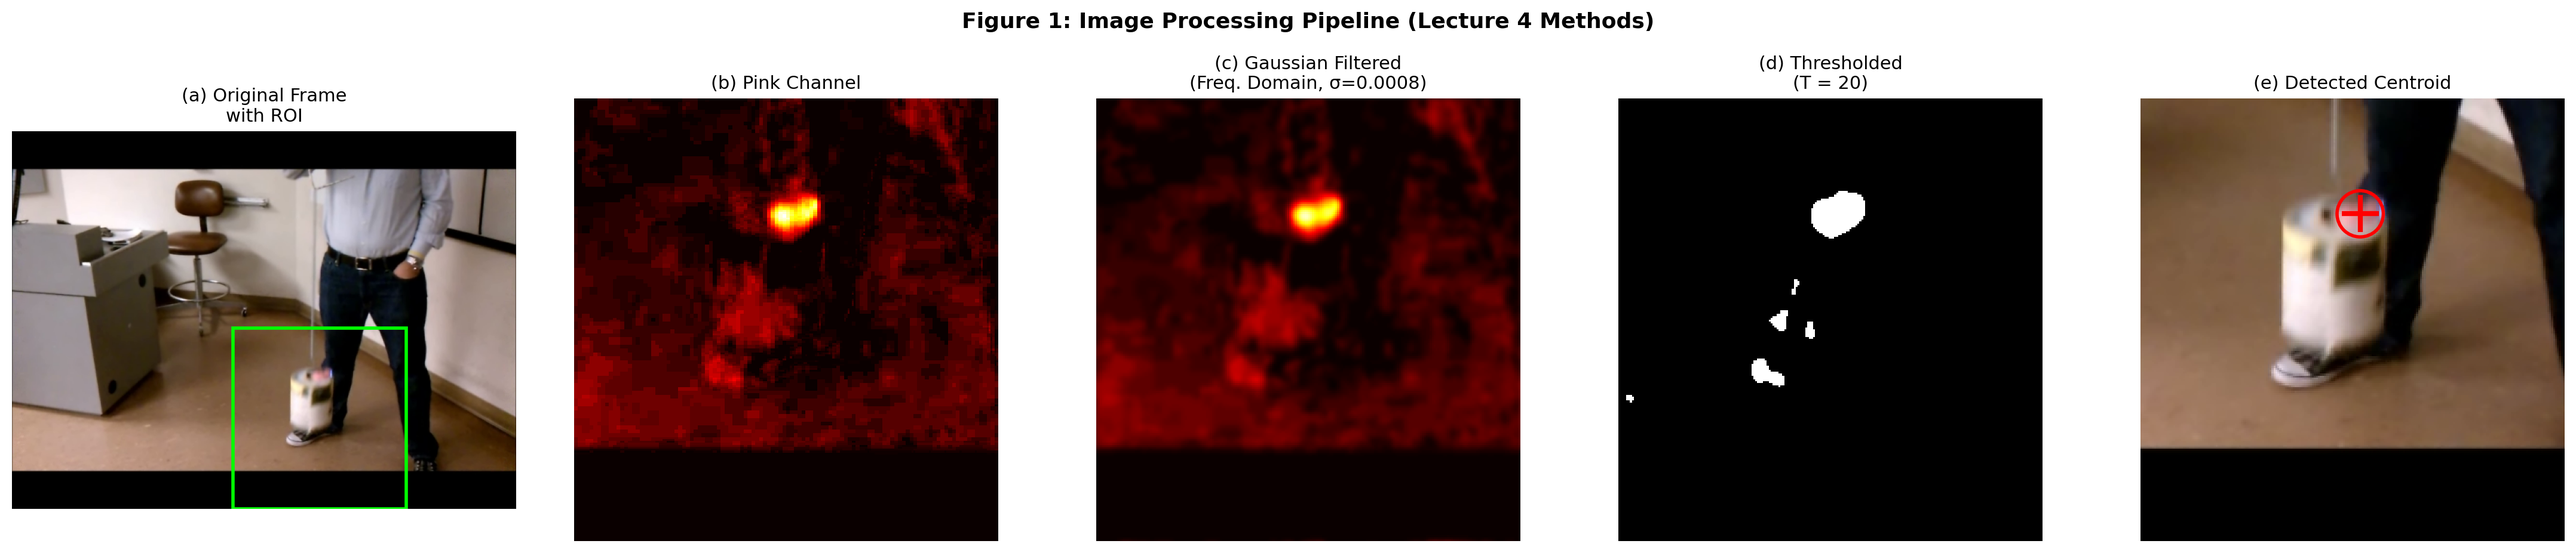
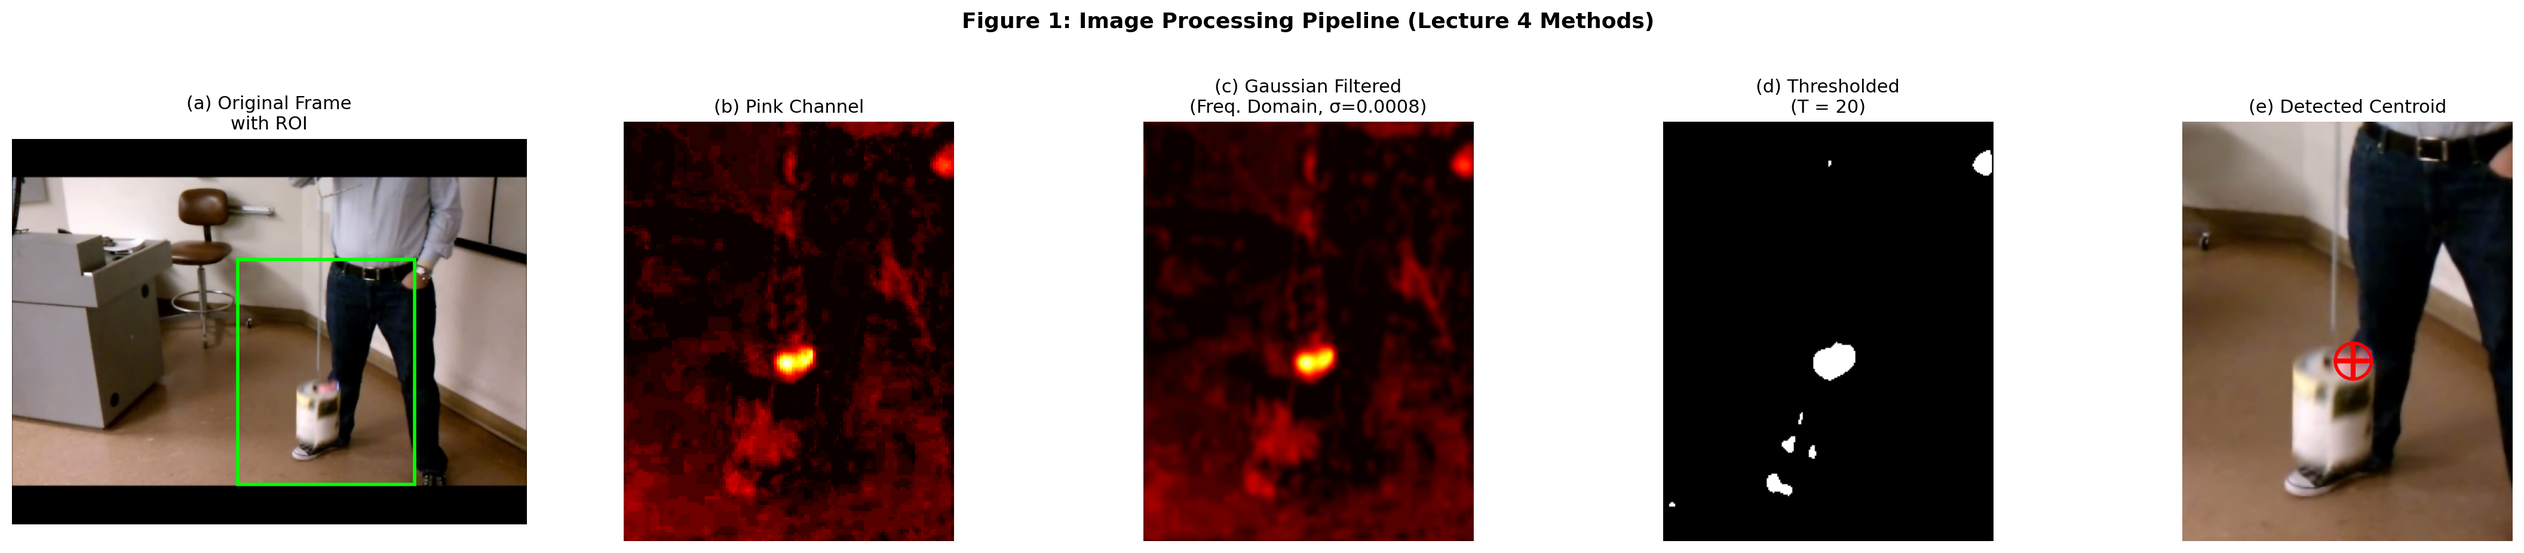
Expand ROIs for Cam 1 & 2, update test1.py for frames 75-100 & 110-150, cleanup old debug images

diff --git a/test1.py b/test1.py
@@ -1,5 +1,5 @@
 """
-Show Camera 1, frames 300–350, all in one figure with tracked centroid overlay.
+Show Camera 1 frame ranges for debugging.
 """
 
 import numpy as np
@@ -9,47 +9,48 @@ from chat1 import track_camera, ROIS, VID_KEYS, CHANNEL_MODE
 
 # -- Settings --------------------------------------------------------------
 CAM = 1
-F_START, F_END = 300, 350          # inclusive range
+FRAME_RANGES = [(75, 100), (110, 150)]
 
 # -- Load video & run tracker ---------------------------------------------
 vid = sio.loadmat(f'cam{CAM}.mat')[VID_KEYS[CAM]]   # (480, 640, 3, nframes)
 x_raw, y_raw = track_camera(CAM)
 y1, y2, x1, x2 = ROIS[CAM]
 
-frames = list(range(F_START, F_END + 1))
-ncols = 10
-nrows = int(np.ceil(len(frames) / ncols))
+for F_START, F_END in FRAME_RANGES:
+    frames = list(range(F_START, F_END + 1))
+    ncols = 10
+    nrows = int(np.ceil(len(frames) / ncols))
 
-fig, axes = plt.subplots(nrows, ncols, figsize=(2.8 * ncols, 3.2 * nrows))
-axes = axes.flatten()
+    fig, axes = plt.subplots(nrows, ncols, figsize=(2.8 * ncols, 3.2 * nrows))
+    axes = axes.flatten()
 
-for i, fidx in enumerate(frames):
-    ax = axes[i]
-    ax.imshow(vid[:, :, :, fidx])
+    for i, fidx in enumerate(frames):
+        ax = axes[i]
+        ax.imshow(vid[:, :, :, fidx])
 
-    # ROI box
-    rect = plt.Rectangle((x1, y1), x2 - x1, y2 - y1,
-                          linewidth=1, edgecolor='lime',
-                          facecolor='none', linestyle='--')
-    ax.add_patch(rect)
+        # ROI box
+        rect = plt.Rectangle((x1, y1), x2 - x1, y2 - y1,
+                              linewidth=1, edgecolor='lime',
+                              facecolor='none', linestyle='--')
+        ax.add_patch(rect)
 
-    # tracked centroid
-    if not np.isnan(x_raw[fidx]):
-        ax.plot(x_raw[fidx], y_raw[fidx], 'r+', markersize=14, markeredgewidth=2)
+        # tracked centroid
+        if not np.isnan(x_raw[fidx]):
+            ax.plot(x_raw[fidx], y_raw[fidx], 'r+', markersize=14, markeredgewidth=2)
 
-    ax.set_title(f'F{fidx}', fontsize=7)
-    ax.axis('off')
+        ax.set_title(f'F{fidx}', fontsize=7)
+        ax.axis('off')
 
-# hide unused subplots
-for i in range(len(frames), len(axes)):
-    axes[i].axis('off')
+    # hide unused subplots
+    for i in range(len(frames), len(axes)):
+        axes[i].axis('off')
 
-plt.suptitle(
-    f'Camera {CAM} — Frames {F_START}–{F_END}  (mode: {CHANNEL_MODE[CAM]})',
-    fontsize=13, fontweight='bold'
-)
-plt.tight_layout()
-fname = f'debug_cam{CAM}_frames_{F_START}_{F_END}.png'
-plt.savefig(fname, dpi=150, bbox_inches='tight')
-plt.close()
-print(f'Saved {fname}')
+    plt.suptitle(
+        f'Camera {CAM} — Frames {F_START}–{F_END}  (mode: {CHANNEL_MODE[CAM]})',
+        fontsize=13, fontweight='bold'
+    )
+    plt.tight_layout()
+    fname = f'debug_cam{CAM}_frames_{F_START}_{F_END}.png'
+    plt.savefig(fname, dpi=150, bbox_inches='tight')
+    plt.close()
+    print(f'Saved {fname}')

diff --git a/chat1.py b/chat1.py
@@ -75,8 +75,8 @@ DATA_PATH = 'cam{}.mat'
 # Cropping to a region around the mass avoids bright distractors elsewhere
 # in the frame (ceiling lights, reflections, etc.)
 ROIS = {
-    1: (250, 480, 280, 500),
-    2: (160, 430, 180, 480),
+    1: (150, 430, 280, 500),
+    2: (80, 410, 180, 480),
     3: (130, 350, 200, 520),
 }
 
